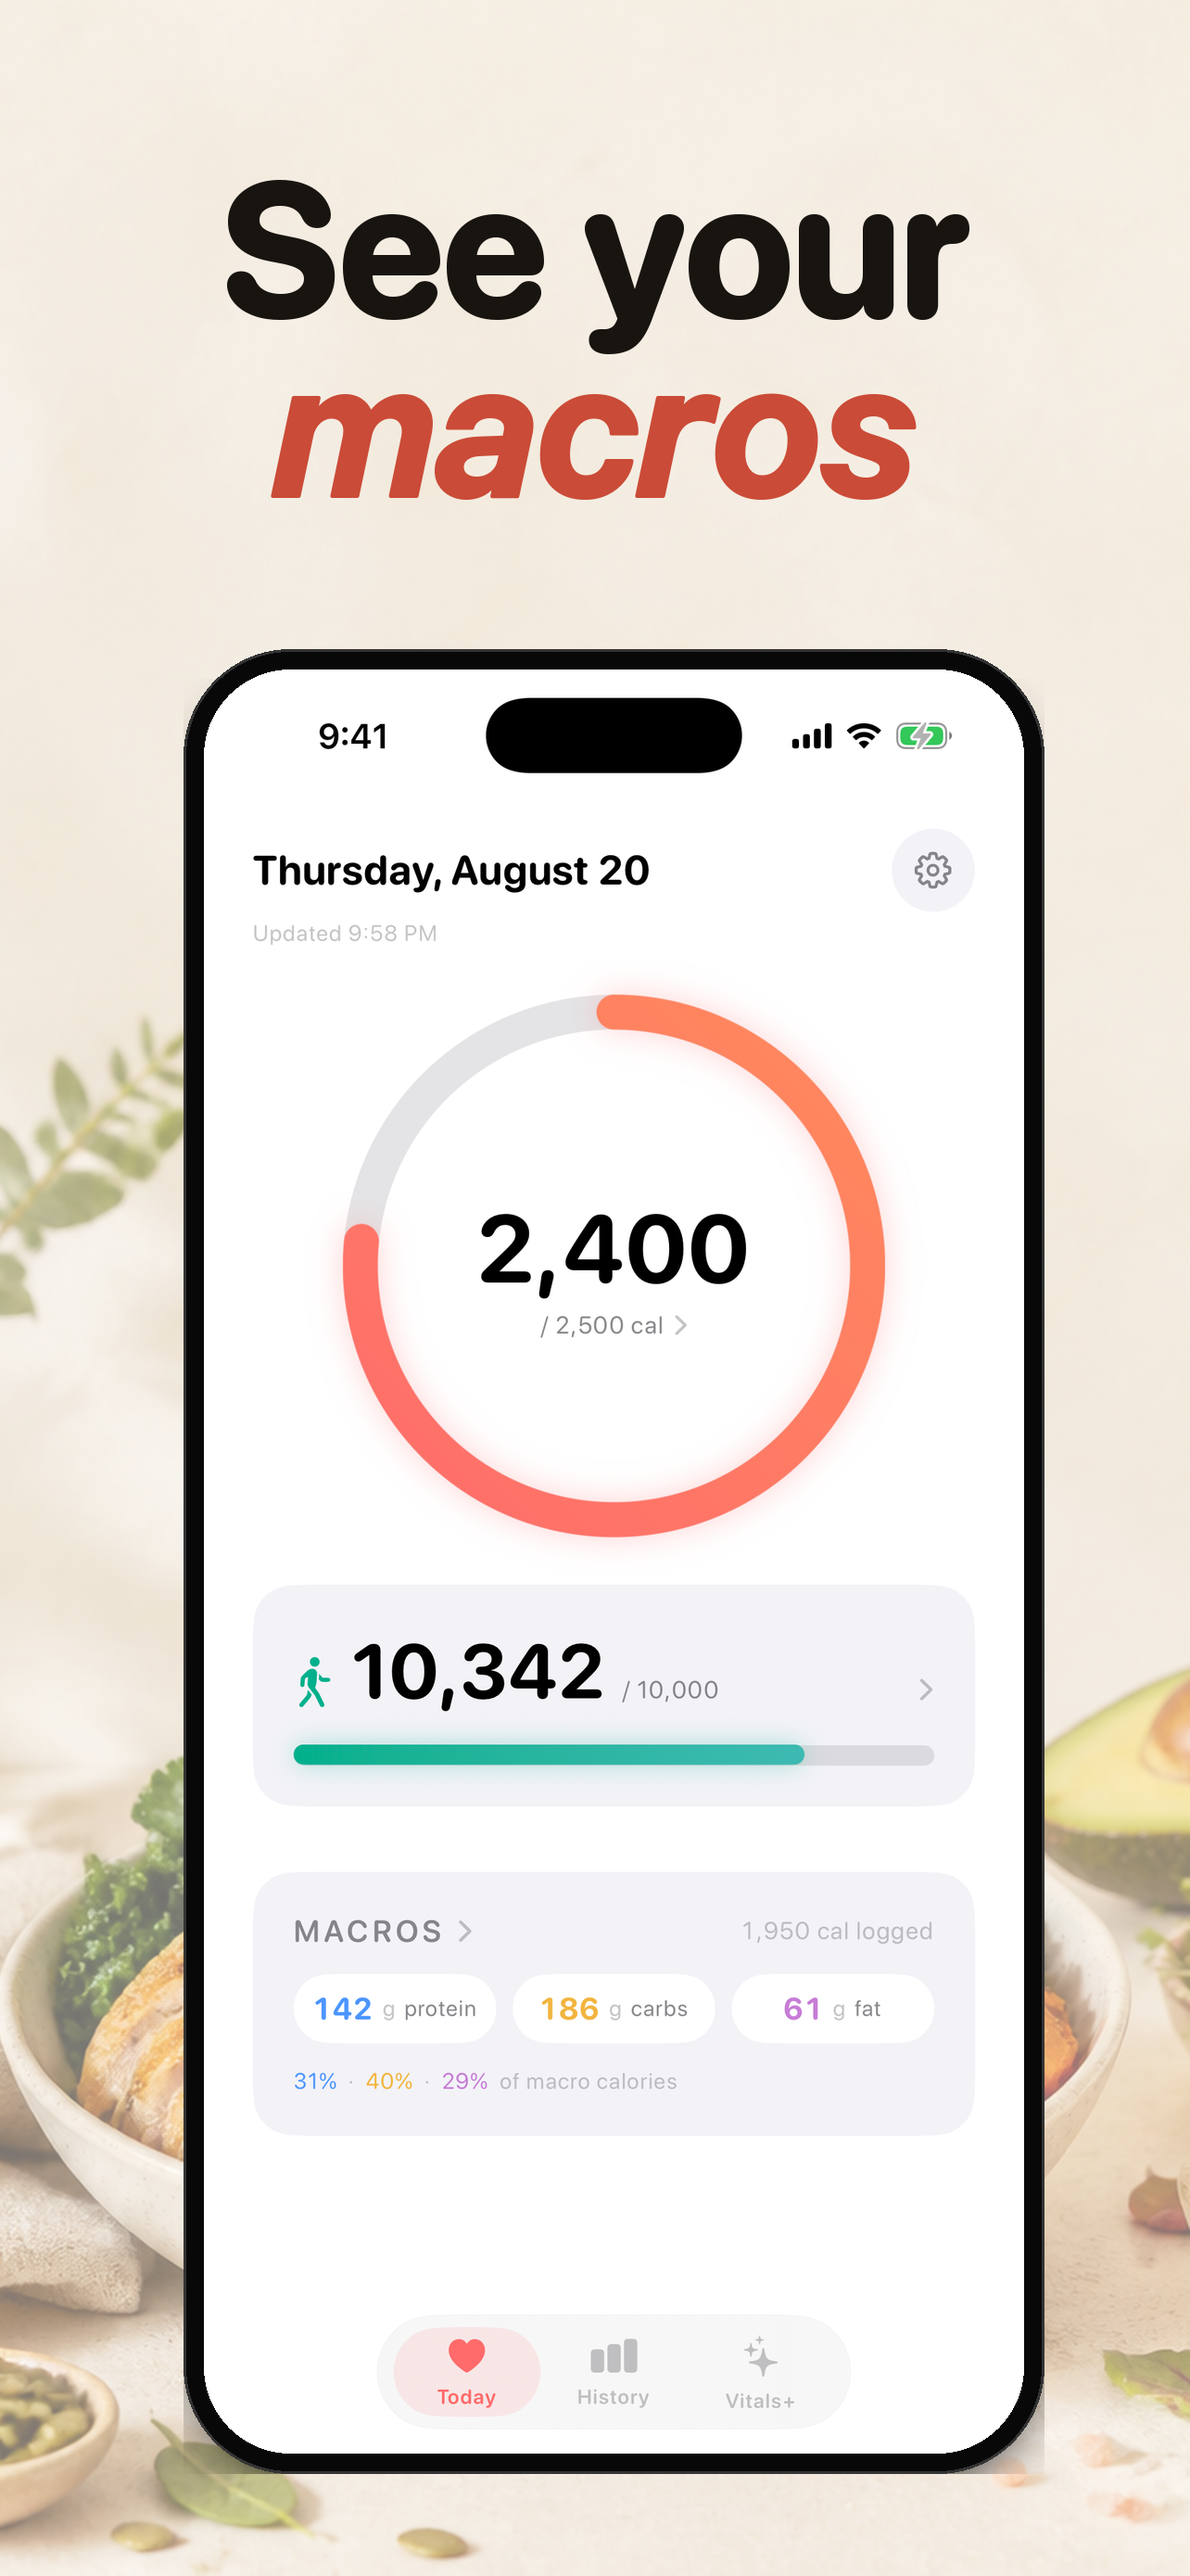
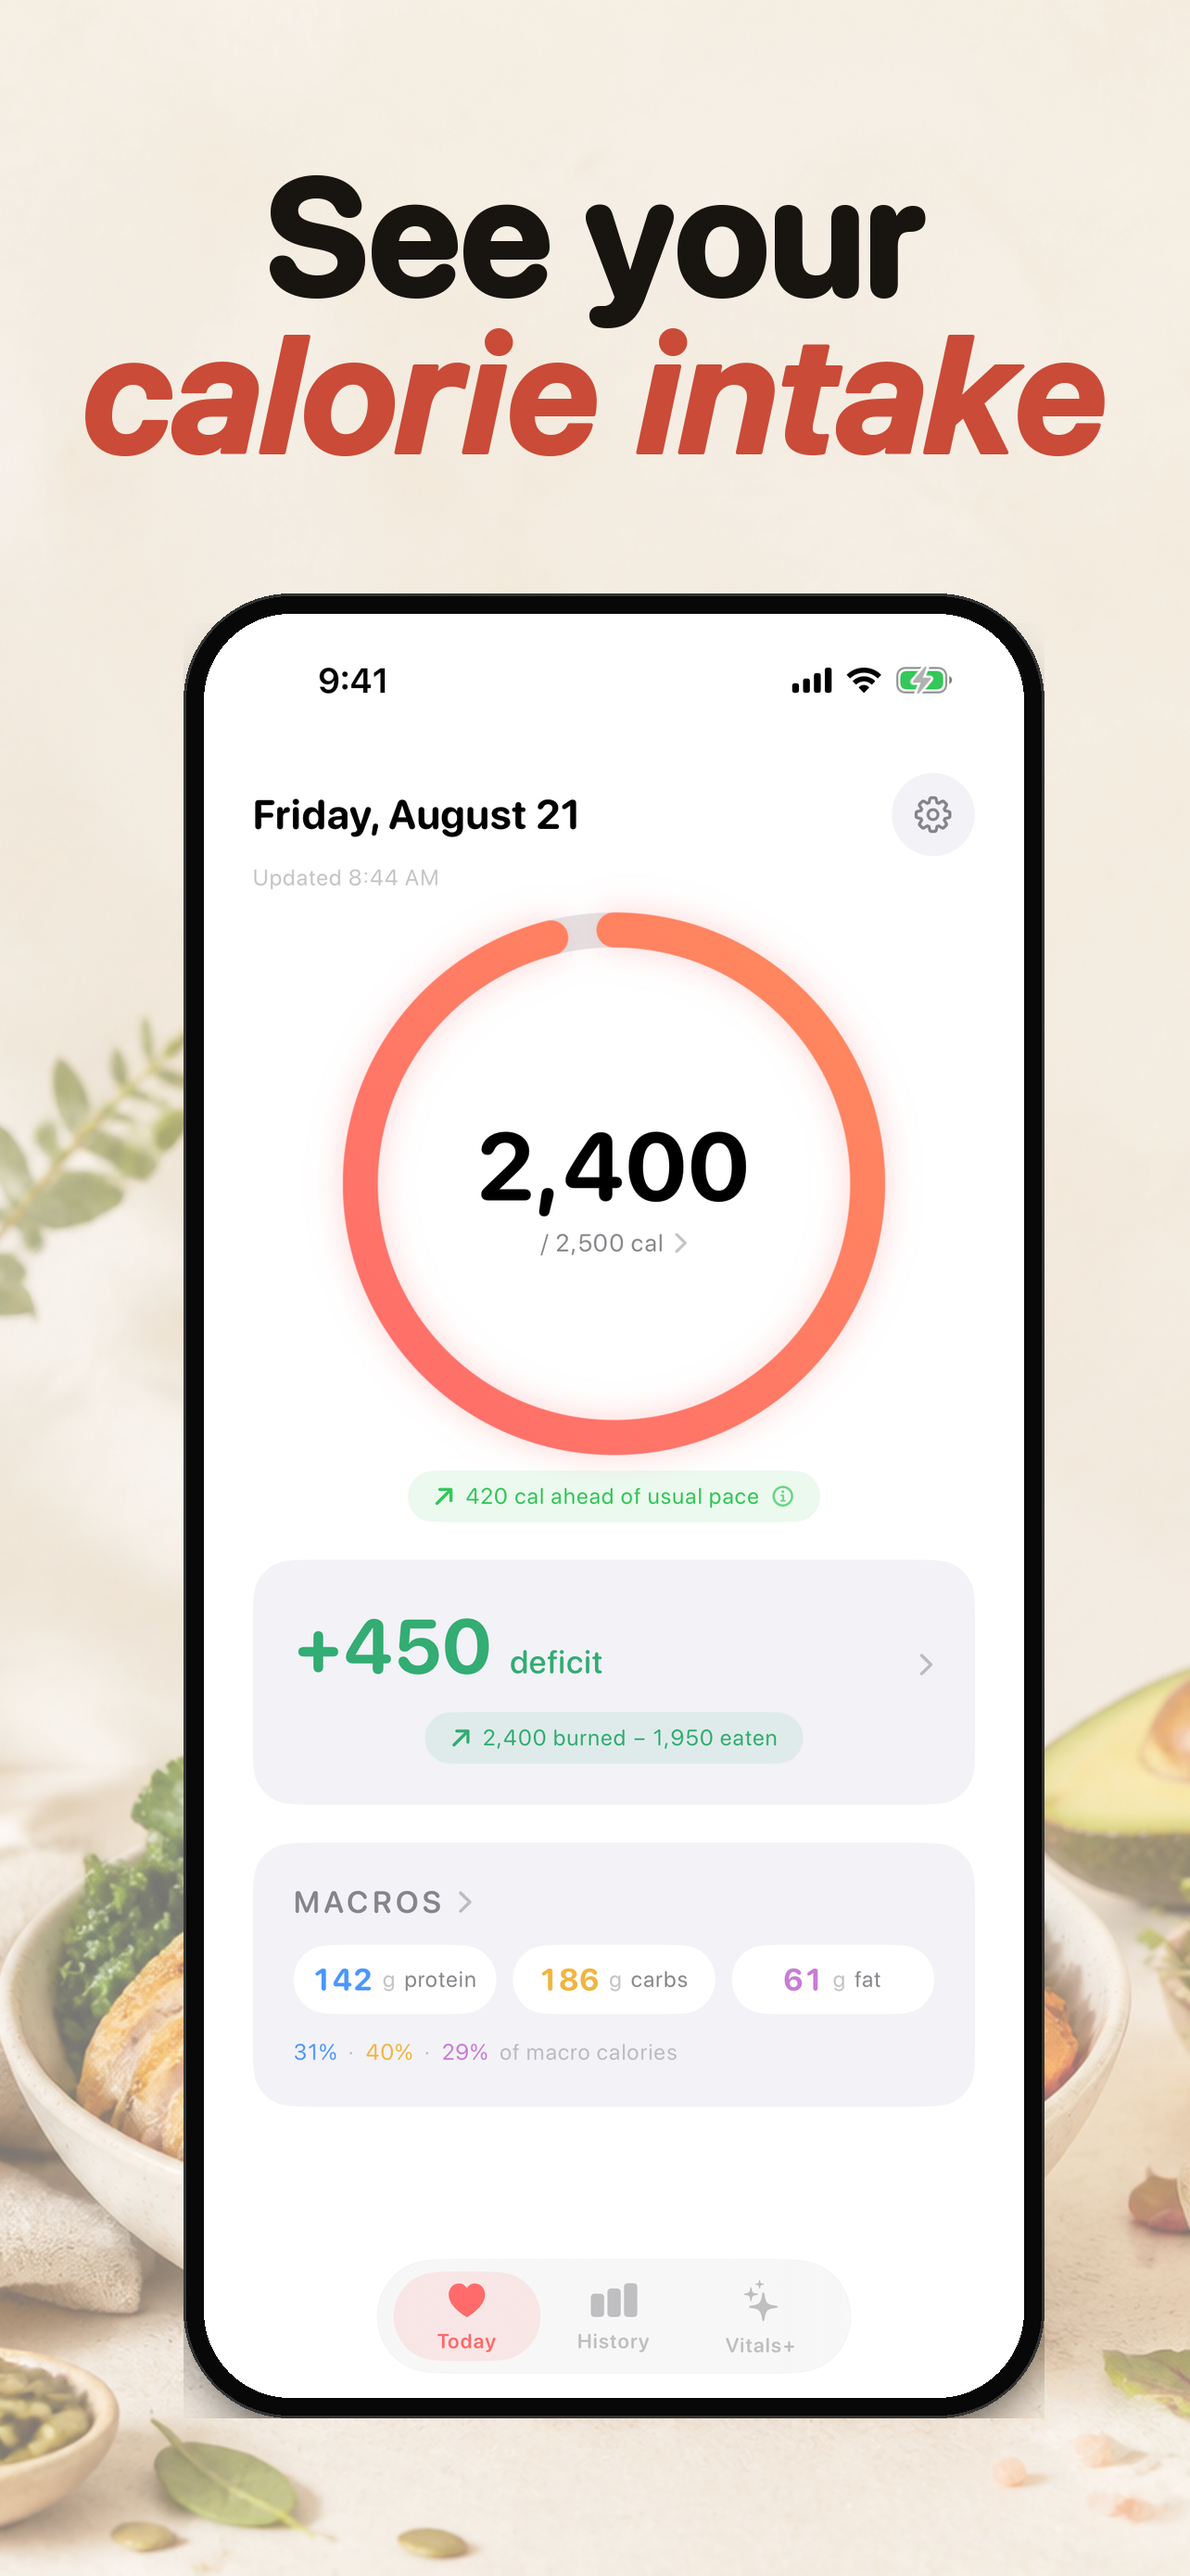
feat(vitals+): give Body Profile a home, and land the calorie-intake frame
Body Profile had no place in the app's structure: a bare row under Appearance,
reachable only by scrolling past everything else in Settings.

Today is the wrong home for it. The dashboard is numbers that move hourly, and
BMI moves on the scale of weeks — a static figure under a live ring reads as
noise. The Vitals+ tab is where it belongs: things a subscriber opens
deliberately, alongside the reports and Deep Trends. Its free half (BMI) is the
hook and its paid half (body fat, calorie context) is what the tab is for.

No toggle. Every other switch in Settings controls a dashboard readout, and
there is nothing here to switch on. The row's detail line carries the status
instead — the resolved BMI once it loads, which answers "is this set up" and
tells you something at the same time, rather than a checkmark that only answers
the first.

Screenshots: the new calorie-intake frame lands at position 3, replacing the
standalone macros frame it supersedes — it carries the ring, Net Deficit, and
the macro card in one image with steps hidden. Final set is 9 iPhone + 2 watch,
checksum-verified against ASC with no duplicates.

Claude-Session: https://claude.ai/code/session_015m5trXz7X5XJc6homcUCsN

diff --git a/Vitals/App.swift b/Vitals/App.swift
@@ -1072,6 +1072,10 @@ private struct PremiumFeaturesView: View {
     @State private var deepTrendHighlights: [String] = []
     @State private var deepTrendsLoaded = false
 
+    @StateObject private var bodyProfile = BodyProfileStore.shared
+    @State private var resolvedBMI: Double?
+    @State private var showBodyProfile = false
+
     var body: some View {
         NavigationStack {
             ZStack {
@@ -1104,6 +1108,19 @@ private struct PremiumFeaturesView: View {
                                 buttonTitle: "Choose Dates",
                                 action: { showCustomReportSheet = true }
                             )
+                            // Body Profile belongs here rather than on Today.
+                            // BMI moves on the scale of weeks; Today is a
+                            // dashboard of numbers that change hourly, and a
+                            // static figure under the ring reads as noise. Here
+                            // it sits with the other things a subscriber opens
+                            // deliberately, and body fat is the Vitals+ half.
+                            PremiumActionRow(
+                                icon: "figure",
+                                title: "Body Profile",
+                                detail: bodyProfileDetail,
+                                buttonTitle: "Open",
+                                action: { showBodyProfile = true }
+                            )
                         }
 
                         deepTrendsSection
@@ -1118,8 +1135,12 @@ private struct PremiumFeaturesView: View {
             }
             .navigationTitle("Vitals+")
             .navigationBarTitleDisplayMode(.inline)
+            .navigationDestination(isPresented: $showBodyProfile) {
+                BodyProfileView()
+            }
             .task {
                 if !deepTrendsLoaded { await loadDeepTrends() }
+                await loadBodyProfile()
             }
             .onChange(of: scenePhase) { _, newPhase in
                 if newPhase == .active {
@@ -1174,6 +1195,23 @@ private struct PremiumFeaturesView: View {
             }
             .animation(.easeInOut(duration: 0.2), value: isGeneratingReport)
         }
+    }
+
+    /// Reads as a status line: the BMI itself once it resolves, which is the
+    /// only "is this set up" signal that also tells you something.
+    private var bodyProfileDetail: String {
+        guard let resolvedBMI else {
+            return "Free BMI from Apple Health, plus body fat and calorie context."
+        }
+        return String(
+            format: "BMI %.1f · body fat and calorie context inside.",
+            resolvedBMI
+        )
+    }
+
+    private func loadBodyProfile() async {
+        let health = (try? await healthKit.fetchBodyProfileFromHealth()) ?? .empty
+        resolvedBMI = bodyProfile.resolved(health: health).bmi
     }
 
     private var deepTrendsSection: some View {
